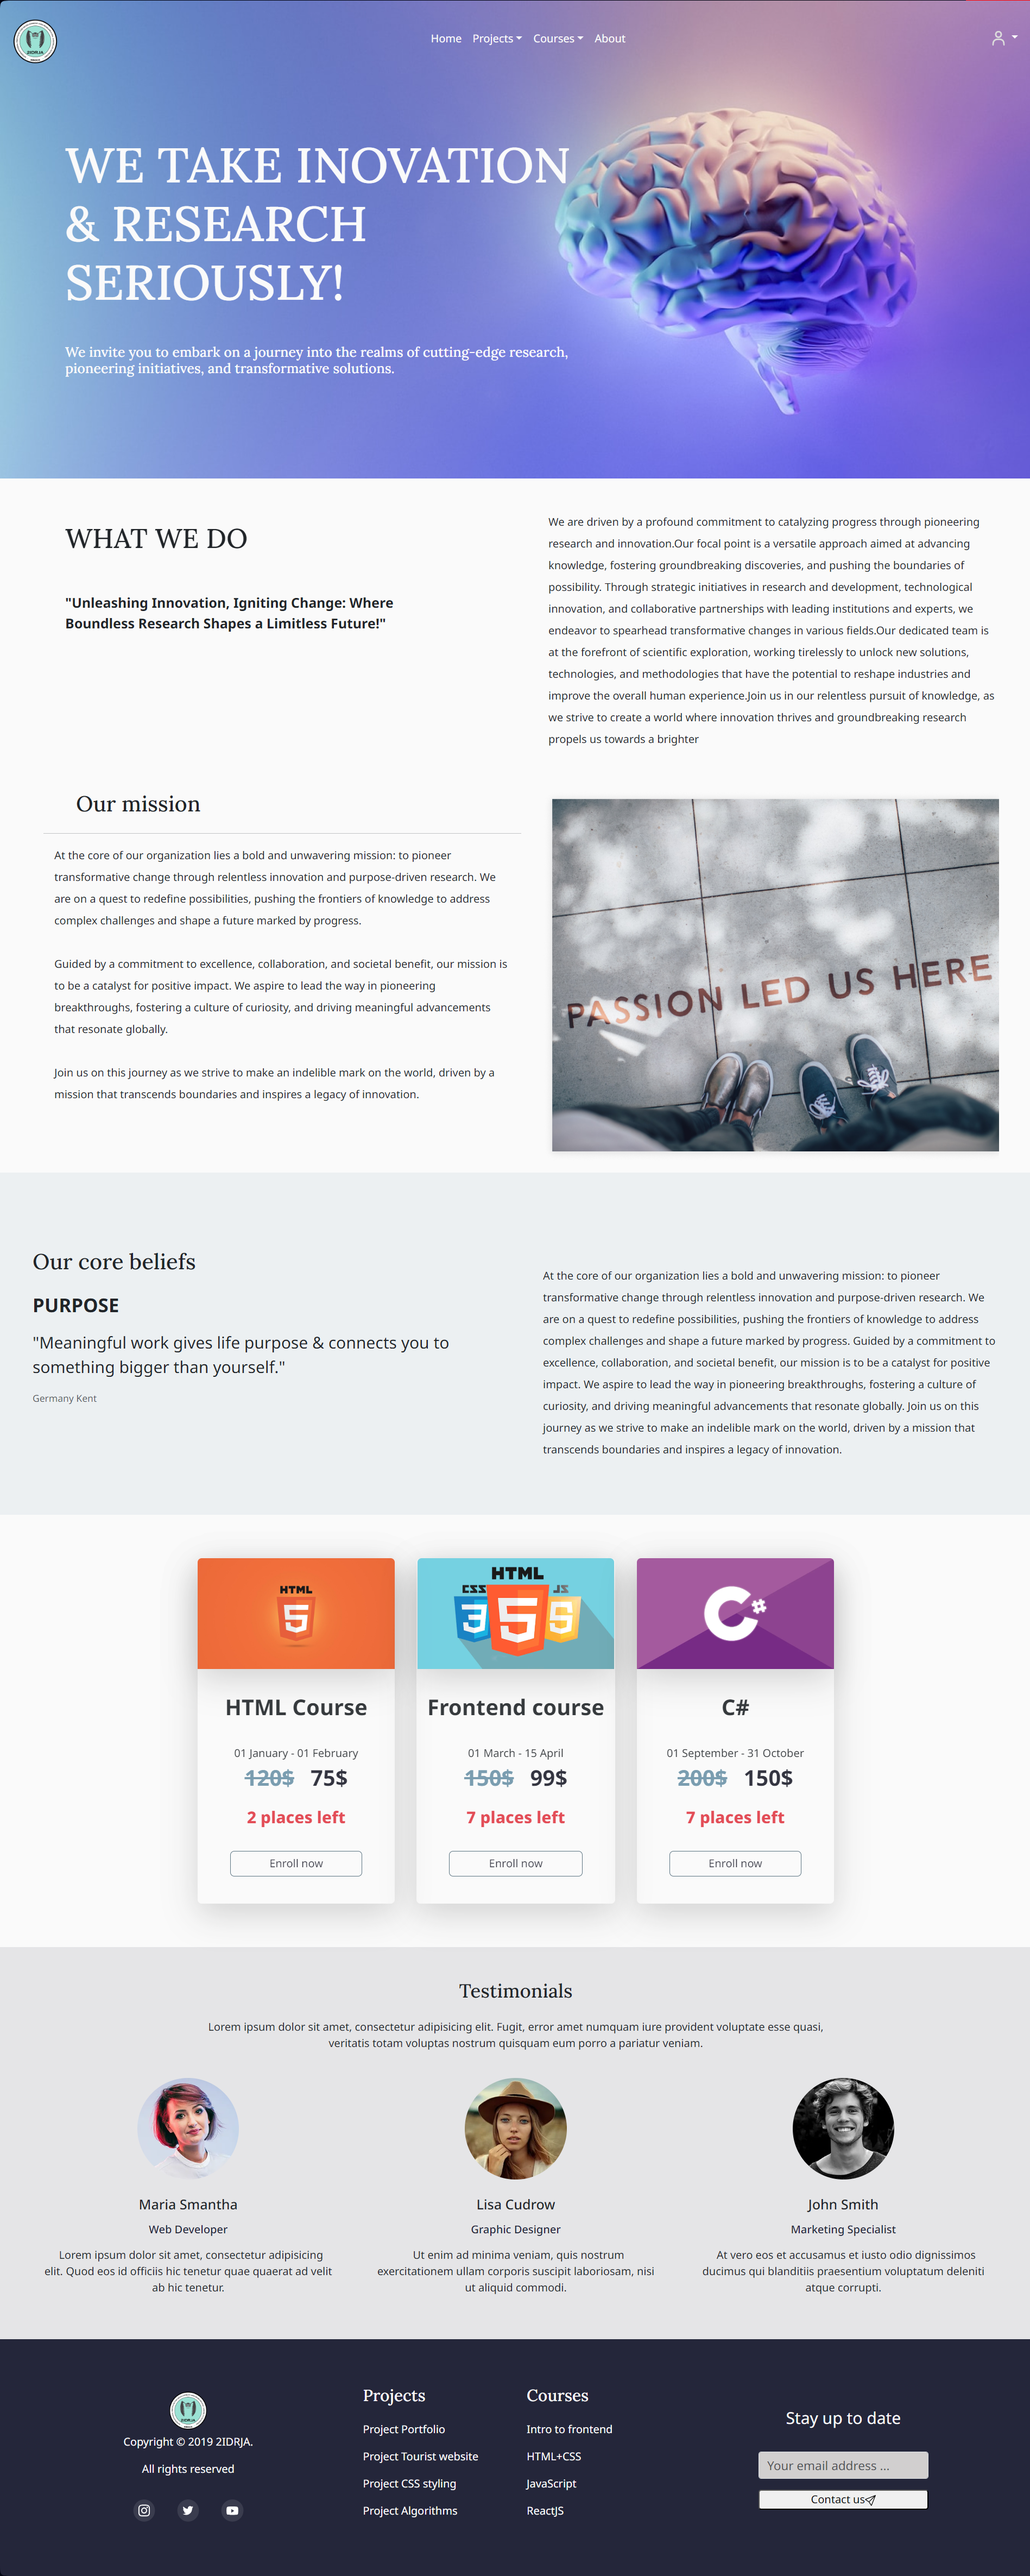
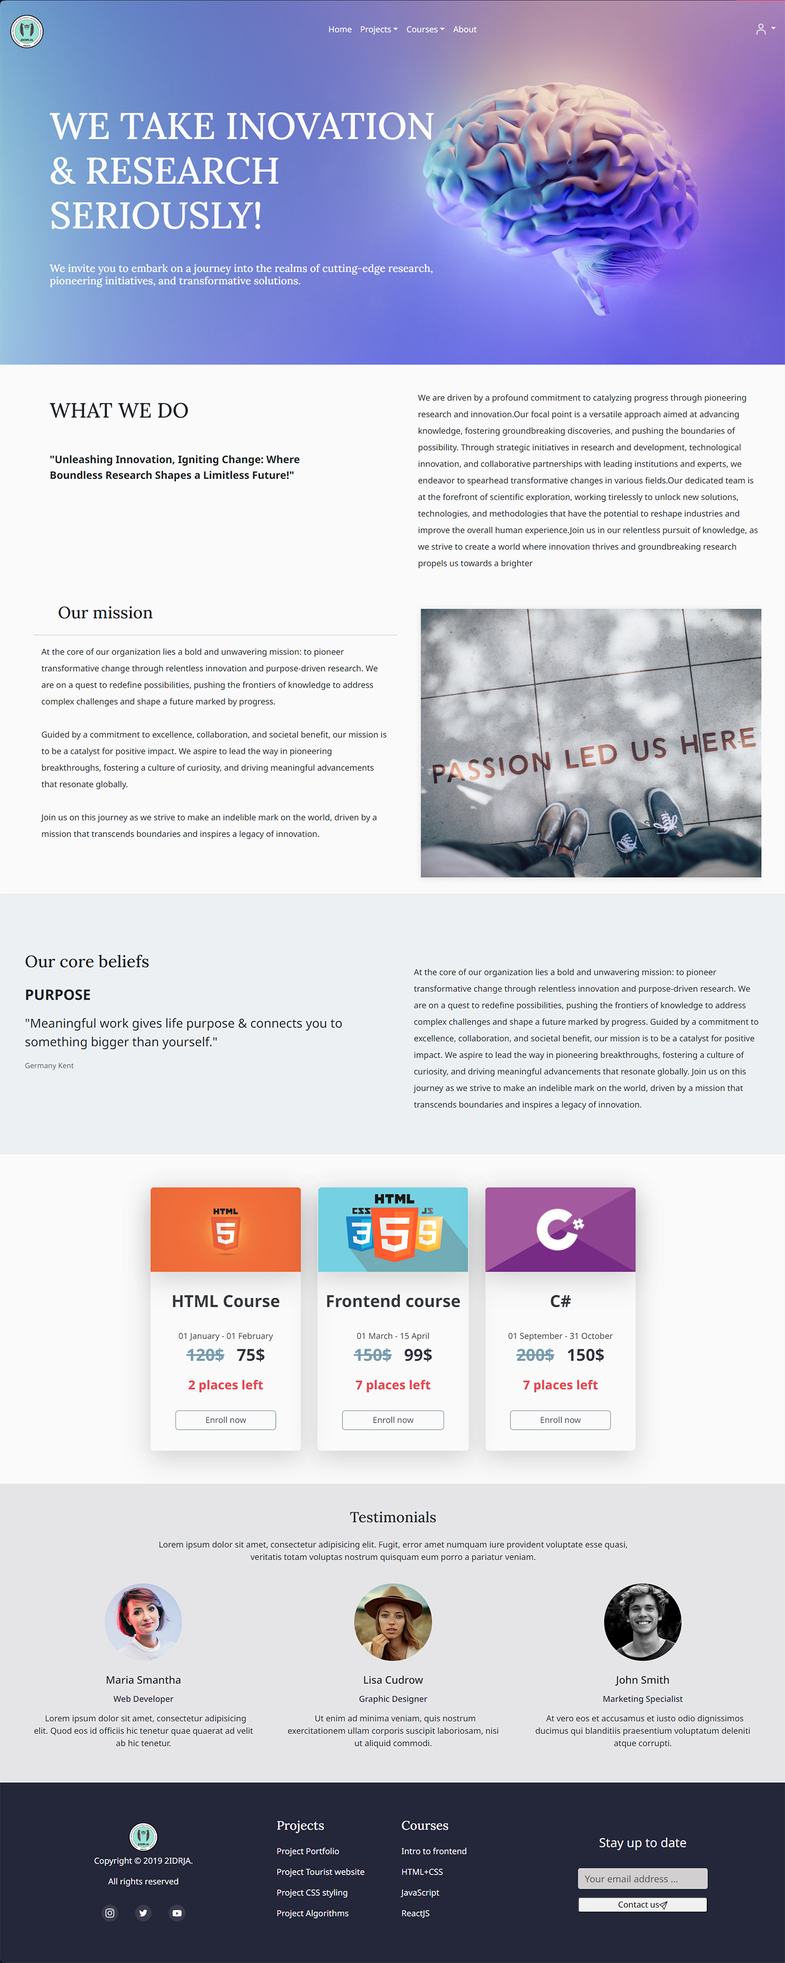
added scrolling images and changed paragraph texts
replaced place holder images with auto scrolling animations of screenshot of past Asprovalta project and current one and changed their accompanying paragraph texts in src-components-ui-Project.jsx or in Projects, Projects Coding

diff --git a/src/components/ui/Project.jsx b/src/components/ui/Project.jsx
@@ -8,7 +8,7 @@ const Project = () => (
     {/* 1st row */}
     <div className="d-flex flex-column flex-lg-row h-75 ps-lg-5 w-100 w-lg-auto">
       <div className="frame d-flex flex-column col-lg-6 p-3">
-        <h1 className="mt-3 mb-3 ms-5">Name of project</h1>
+        <h1 className="mt-3 mb-3 ms-5">Asprovalta M</h1>
         {/* <---------------------lines---------------------> */}
         {/* <div className="box mb-4">
             <div className="lines">
@@ -20,78 +20,83 @@ const Project = () => (
           </div> */}
         {/* <---------------------lines---------------------> */}
 
-        <h3 className="mb-2 mx-5">Key details of the project</h3>
+        <h3 className="mb-2 mx-5">Appartment booking website</h3>
         <p className="pt-5 mx-3 paragraph-justified">
-          We are driven by a profound commitment to catalyzing progress through pioneering
-          research and innovation.
+          This is our first web programming project, it is a fully functional
+          platform for booking apartments in Asprovalta.
           <br />
           <br />
-          Our focal point is a versatile approach aimed at advancing knowledge, fostering
-          groundbreaking discoveries, and pushing the boundaries of possibility.
+          The website was built using React, Bootstrap, HTML, and CSS and creates a seamless,
+          user-friendly experience. It features a responsive front end design to adapt to any
+          screen size whether it is on mobile, tablet or desktop and a secure back end to
+          protect sensitive user information.
           <br />
           <br />
-          Through strategic initiatives in research and development, technological innovation, and
-          collaborative partnerships with leading institutions and experts, we endeavor to
-          spearhead transformative changes in various fields.
+          Visitors are able to create accounts, while signing up they will receive an e-mail
+          to verify their e-mail address, then they can log in, search for available bookings
+          based on specific dates and months.
           <br />
           <br />
-          Our dedicated team is at the forefront of scientific exploration, working tirelessly to
-          unlock new solutions, technologies, and methodologies that have the potential to reshape
-          industries and improve the overall human experience.
+          We’ve integrated a secure booking and payment system, allowing users to conveniently
+          reserve and pay for their chosen apartments.
           <br />
           <br />
-          Join us in our relentless pursuit of knowledge, as we strive to create a world where
-          innovation thrives and groundbreaking research propels us towards a brighter future.
+          This project reflects our commitment to delivering functional, real-world
+          applications and demonstrates our growing expertise in web development.
+          Our team has worked diligently to ensure the platform is user-centric, with
+          features that simplify and enhance the booking experience.
         </p>
       </div>
-      <div className="d-flex flex-row flex-lg-col col-lg-6 pe-5 p-3">
-        <img className="img-fluid" src={projectimg} alt="Project" />
+      <div className="col-xs-6 col-md-12 col-lg-6 p-4">
+        <div className="scroll-container">
+          <div className="scroll-image">
+            <img className="img-fluid" src={projectimg} alt="Project" />
+            <img className="img-fluid" src={projectimg} alt="Project" />
+          </div>
+        </div>
       </div>
     </div>
 
     {/* 2nd row */}
-    <div className="d-flex flex-column flex-lg-row  ps-lg-5 w-100 w-lg-auto py-5">
-      <div className="d-flex flex-row flex-lg-col col-lg-6 pe-5 p-3 col-12 order-lg-1 order-2">
-        <img className="img-fluid" src={projectimg2} alt="Project" />
+    {/* <div className="d-flex flex-column flex-lg-row  ps-lg-5 w-100 w-lg-auto py-5">
+      <div className="d-flex flex-row flex-lg-col col-lg-6 pe-5 p-3 col-12 order-lg-1 order-2"> */}
+    <div className="d-flex flex-column flex-lg-row w-100 py-5">
+      <div className="col-12 col-lg-6 p-4 order-lg-1 order-2">
+        <div className="scroll-container">
+          <div className="scroll-image">
+            <img className="img-fluid unselectable" src={projectimg2} alt="Project" />
+            <img className="img-fluid unselectable" src={projectimg2} alt="Project" />
+          </div>
+        </div>
       </div>
-      <div className="frame d-flex flex-column col-lg-6 p-3 col-12 order-lg-2 order-1">
-        <h1 className="d-flex flex-row-reverse mt-3 mb-3 ms-5 pe-5">Name of project</h1>
-        {/* <---------------------lines---------------------> */}
-        {/* <div className="d-flex flex-row-reverse box mb-4">
-            <div className="lines-right">
-              <div className="overlap-group-right">
-                <div className="rectangle-right" />
-                <div className="rectangle-2-right" />
-              </div>
-            </div>
-          </div> */}
-        {/* <---------------------lines---------------------> */}
 
-        <h3 className="d-flex flex-row-reverse mb-2 pe-5">Key details of the project</h3>
+      <div className="frame d-flex flex-column col-12 col-lg-6 p-3 order-lg-2 order-1">
+        <h1 className="mt-3 mb-3 ms-3 ms-lg-5 pe-3 pe-lg-5">Inovation & Research</h1>
+        <h3 className="mb-2 ms-3 ms-lg-5 pe-3 pe-lg-5">Programming courses platform</h3>
         <p className="d-flex flex-row-reverse pt-5 pe-5 text-end paragraph-justified">
-          We are driven by a profound commitment to catalyzing progress through pioneering
-          research and innovation.
+          Our project is built on a commitment to empowering future developers through accessible,
+          high-quality programming courses. Created in collaboration with a team of dedicated students as
+          part of their learning journey.
           <br />
           <br />
-          Our focal point is a versatile approach aimed at advancing knowledge, fostering
-          groundbreaking discoveries, and pushing the boundaries of possibility.
+          This web page offers an array of courses tailored to beginners and seasoned programmers,
+          covering essential languages and frameworks such as
+          <br />
+          HTML, React, JavaScript, and C#.
           <br />
           <br />
-          Through strategic initiatives in research and development, technological innovation, and
-          collaborative partnerships with leading institutions and experts, we endeavor to
-          spearhead transformative changes in various fields.
+          By providing hands-on resources and up-to-date content, we aim to inspire learners to push
+          their technical boundaries and foster creative problem-solving skills. With each course,
+          students engage in practical exercises and interactive lessons, designed to deepen
+          understanding and spark curiosity in the vast world of web development.
           <br />
           <br />
-          Our dedicated team is at the forefront of scientific exploration, working tirelessly to
-          unlock new solutions, technologies, and methodologies that have the potential to reshape
-          industries and improve the overall human experience.
-          <br />
-          <br />
-          Join us in our relentless pursuit of knowledge, as we strive to create a world where
-          innovation thrives and groundbreaking research propels us towards a brighter future.
+          We believe in the transformative power of technology and the importance of equipping
+          learners with the tools to thrive in a tech-driven world.
         </p>
       </div>
     </div>
+
   </div>
 );
 

diff --git a/src/components/ui/Project.css b/src/components/ui/Project.css
@@ -75,3 +75,53 @@ h3 {
 .img-thumbnail {
   border: none !important;
 }
+.scroll-container {
+  overflow: hidden;
+  height: 520px; /* Adjust height to control visible area */
+  position: relative;
+}
+/* Scrolling effect for the image */
+.scroll-image {
+  display: flex;
+  flex-direction: column;
+  position: absolute;
+  top: 0;
+  animation: scrollUp 35s linear infinite; /* Adjust the duration to control speed */
+}
+/* Animation for scrolling */
+@keyframes scrollUp {
+  from {
+      transform: translateY(0);
+  }
+  to {
+      transform: translateY(-50%); /* Scroll up by half the container's height to loop */
+  }
+}
+
+@media (max-width: 768px) {
+  /* Make images full-width on tablets */
+  .scroll-container img {
+    width: 100%;
+  }
+}
+
+/* Apply full width to the images in tablet view and make them unselectable */
+.col-12 .scroll-container {
+  overflow: hidden;
+  height: 520px;
+  position: relative;
+}
+
+.scroll-image img {
+  width: 100%;
+  pointer-events: none; /* Prevent image selection */
+  user-select: none;    /* Prevent text/image selection */
+}
+
+/* Unselectable class to prevent selection */
+.unselectable {
+  -webkit-user-select: none;
+  -moz-user-select: none;
+  -ms-user-select: none;
+  user-select: none;
+}
